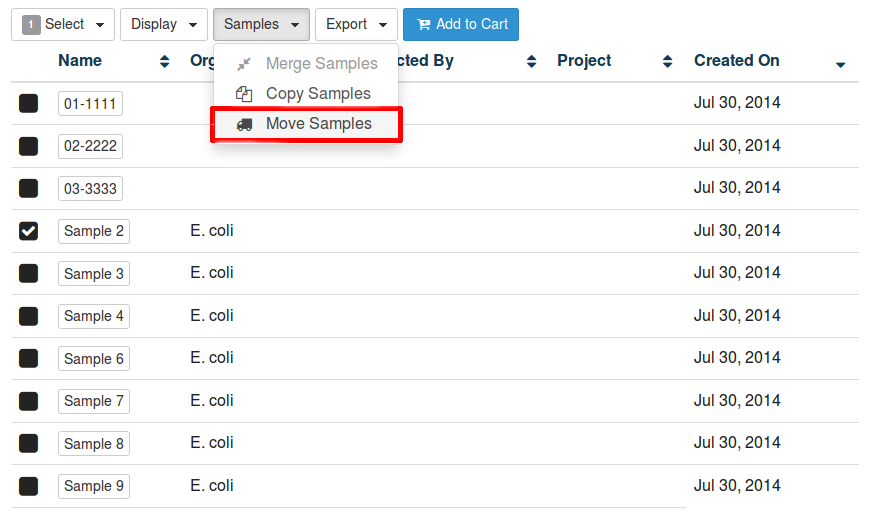
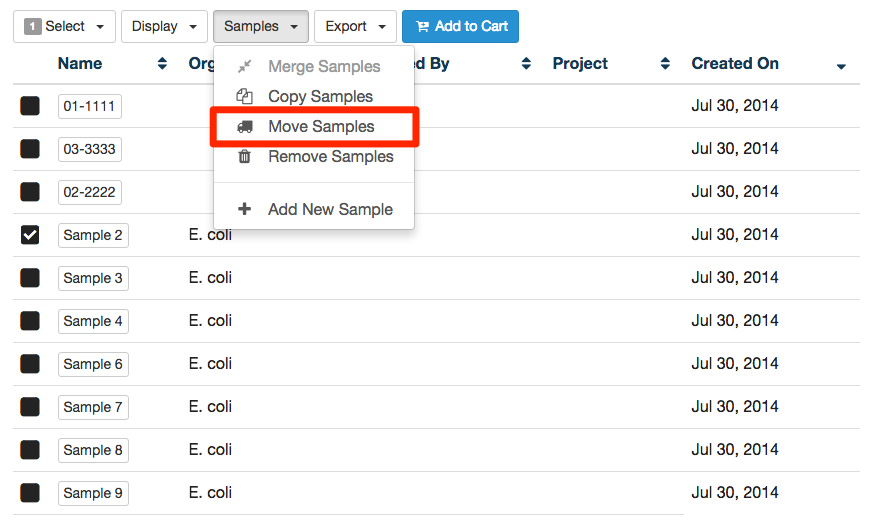
Added documentation

diff --git a/doc/user/user/samples/index.md b/doc/user/user/samples/index.md
@@ -75,6 +75,25 @@ If you need to delete a sequence file from IRIDA, you can do so by clicking on t
 
 You can only delete a sequence file from a sample if you have the project <img src="images/manager-icon.png" class="inline" alt="Manager role icon."> **Manager** role on the project.
 
+Adding a new sample
+-------------------
+
+Samples can be manually added to a project, you can do so by clicking on the 'New Sample Button' in the samples menu.
+
+![New sample button](images/add-sample-button.png)
+
+Clicking this button will take you to the Create New Sample page.  Where you must fill in a name for the sample (must be at least 3 characters and only letters, numbers, _ or -).
+
+![Create new sample palge](images/create-sample-page.png)
+
+When entering the name for the organism, if you type more than 2 letters IRIDA will give you a list of probable taxonomic terms.
+
+![Taxonomic terms](images/create-sample-page-organism.png)
+
+Clicking on the 'Create Sample' button will create the sample and take you to the sample page where you can upload files.
+
+![Create Sample](images/create-sample-page-create.png)
+
 Searching and filtering samples
 -------------------------------
 
